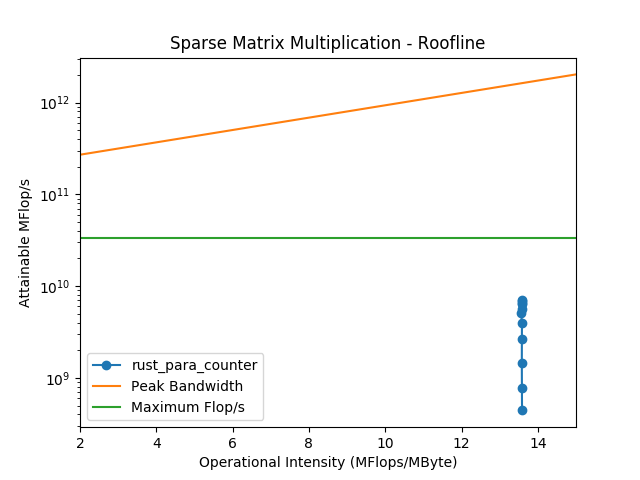
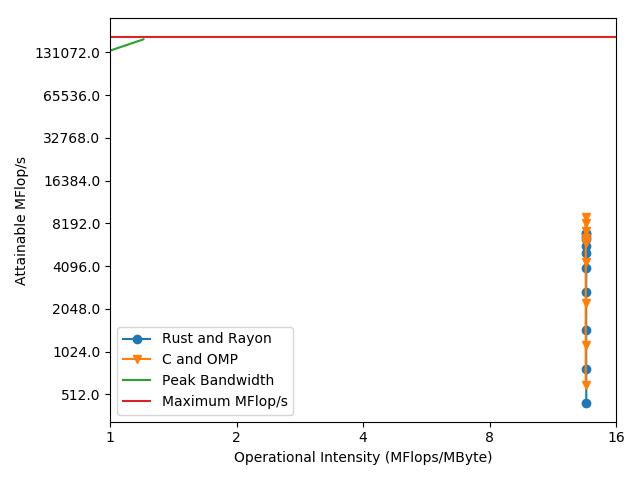
roofline done?

diff --git a/sparse/results/cr.py b/sparse/results/cr.py
@@ -3,6 +3,7 @@ import sys
 import numpy as np
 import matplotlib.pyplot as plt
 import string
+import math
 
 def parse_file(f):
     print('Parsing',f)
@@ -18,8 +19,10 @@ def parse_file(f):
         if s:
             if s[1] == 'r5301c7':
                 flops = int(s[0].translate(t))
-                flops += 2 * int(data[i+2].split()[0].translate(t))
-                res_x += [flops/16630000000]
+                flops += 2 * int(data[i+2].split()[0].translate(t)) # r5301c7
+                flops += 4 * int(data[i+4].split()[0].translate(t)) # r5310c7
+                flops = flops/1000000 # Change flops to Mflops
+                res_x += [flops/16630] # Total data is 16630MB
                 flops = flops / float(data[i+7].split()[0])
                 res_y += [flops]
         i+=1
@@ -37,7 +40,7 @@ def get_speedup(res):
 
 def abline(slope, intercept):
     axes = plt.gca()
-    x_vals = np.array(axes.get_xlim())
+    x_vals = np.array([1,1.2])#axes.get_xlim())
     y_vals = intercept + slope * x_vals
     return x_vals, y_vals
 
@@ -66,19 +69,23 @@ if __name__ == '__main__':
     fig, ax = plt.subplots()
     while j < len(all_res_x):
         print(labels[j])
-        print('Threads, Flops,\tOperation Intensity')
+        print('Threads, MFlops,\tOperation Intensity')
         for i in range(len(all_res_x[j])):
             print(threads[i],'\t', all_res_y[j][i], all_res_x[j][i])
         ax.plot(all_res_x[j],all_res_y[j],label=labels[j], marker=markers[j])
         j += 1
-    ax.set_xlim(2,15)
-    peak_band_x, peak_band_y = abline(135106598000, 0)
+    ax.set_xlim(1,16)
+    peak_band_x, peak_band_y = abline(135106.598, -1)
     print(peak_band_x, peak_band_y)
     ax.plot(peak_band_x, peak_band_y, label="Peak Bandwidth")
-    ax.plot(peak_band_x, [33782000000 for i in peak_band_x], label="Maximum Flop/s")
-    t = 'Sparse Matrix Multiplication - Roofline'
-    ax.set(xlabel='Operational Intensity (MFlops/MByte)', ylabel='Attainable MFlop/s',title=t)
-    ax.set_yscale('log')
-    #ax.set_xscale('log')
+    #ax.plot(peak_band_x, [33782000000 for i in peak_band_x], label="Maximum Flop/s")
+    # Max flop/s is 168910 MFlop/s
+    ax.plot(ax.get_xlim(), [168910 for i in ax.get_xlim()], label="Maximum MFlop/s")
+    ax.set(xlabel='Operational Intensity (MFlops/MByte)', ylabel='Attainable MFlop/s')
+    ax.set_yscale('log', basey=2)
+    ax.set_xscale('log', basex=2)
+    ax.set_xticklabels([0,1,2,4,8,16])
+    ax.set_yticklabels([math.pow(2, i) for i in range(7,18)])
     ax.legend()
+    plt.tight_layout()
     fig.savefig('roofline2.png')
